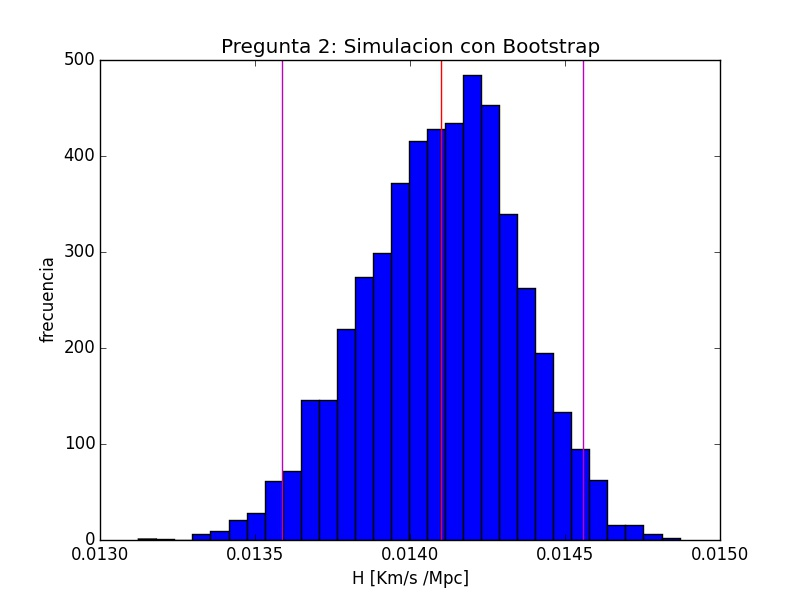
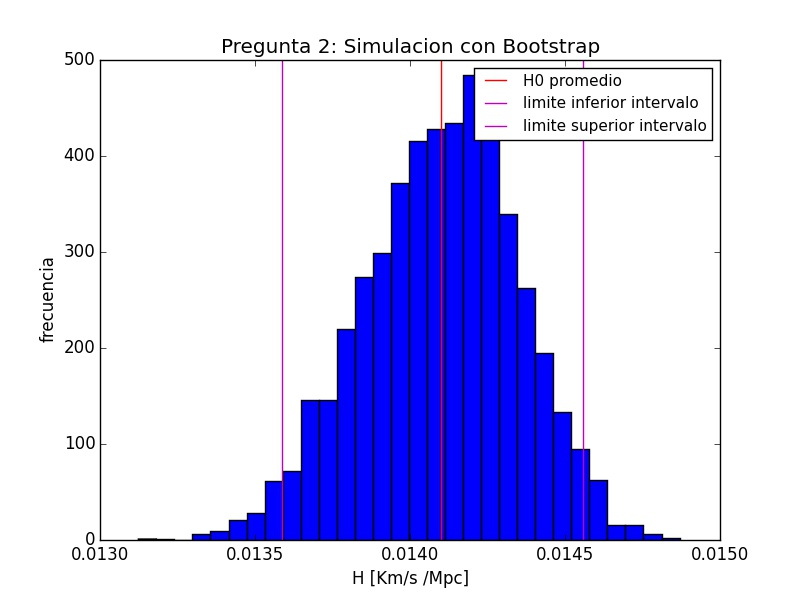
incializa y define alguna funciones en p3

Changed region(s): [[0.5625, 0.09, 0.9062, 0.24]]

diff --git a/p2.py b/p2.py
@@ -9,7 +9,7 @@ from scipy import optimize as opt
 import os
 
 '''
-Este script calcula la constante de Hubble con los primeros datos
+Este script calcula la constante de Hubble con los segundos datos
 experimentales.
 '''
 
@@ -83,20 +83,22 @@ def bootstrap(d, v):
     limite_alto = Hprom[int(N_boot * 0.975)]
     fig2, ax2 = plt.subplots()
     plt.hist(H_prom, bins=30, facecolor='b')
-    plt.axvline(H_prom_0, color='r')
-    plt.axvline(limite_bajo, color='m')
-    plt.axvline(limite_alto, color='m')
+    plt.axvline(H_prom_0, color='r', label="H0 promedio")
+    plt.axvline(limite_bajo, color='m', label="limite inferior intervalo")
+    plt.axvline(limite_alto, color='m', label="limite superior intervalo")
     ax2.set_title("Pregunta 2: Simulacion con Bootstrap")
     ax2.set_xlabel("H [Km/s /Mpc]")
     ax2.set_ylabel("frecuencia")
+    plt.legend(fontsize=11)
     plt.savefig("Histograma_p2.jpg")
 
     print "El intervalo de confianza al 95% es: [{}:{}]".format(limite_bajo,
                                                                 limite_alto)
+    print "H0 promedio corresponde a: [{}]".format(H_prom_0)
     return H_prom_0
 
 
-def aprox(distancia, vel, H_prom):
+def aprox(distancia, vel, H_prom):[0.0135869453555:0.0145575178335]
     '''
     recibe el arreglo de distancias ,velocidades y Hs, las grafica y compara
     con los datos de muestra

diff --git a/p1.py b/p1.py
@@ -83,16 +83,18 @@ def bootstrap(d, v):
     limite_alto = Hprom[int(N_boot * 0.975)]
     fig2, ax2 = plt.subplots()
     plt.hist(H_prom, bins=30, facecolor='b')
-    plt.axvline(H_prom_0, color='r')
-    plt.axvline(limite_bajo, color='m')
-    plt.axvline(limite_alto, color='m')
+    plt.axvline(H_prom_0, color='r', label="H0 promedio")
+    plt.axvline(limite_bajo, color='m', label="limite inferior intervalo")
+    plt.axvline(limite_alto, color='m', label="limite superior intervalo")
     ax2.set_title("Pregunta 1: Simulacion con Bootstrap")
     ax2.set_xlabel("H [Km/s /Mpc]")
     ax2.set_ylabel("frecuencia")
+    plt.legend(fontsize=11)
     plt.savefig("Histograma_p1.jpg")
 
     print "El intervalo de confianza al 95% es: [{}:{}]".format(limite_bajo,
                                                                 limite_alto)
+    print "H0 promedio corresponde a: [{}]".format(H_prom_0)
     return H_prom_0
 
 
